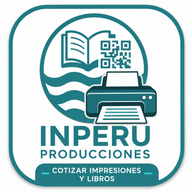
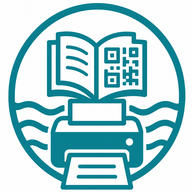
Add files via upload

diff --git a/index.html b/index.html
@@ -10,6 +10,9 @@
     <meta name="apple-mobile-web-app-capable" content="yes">
     <meta name="apple-mobile-web-app-status-bar-style" content="black-translucent">
     <meta name="apple-mobile-web-app-title" content="INPERU">
+    <link rel="manifest" href="./manifest.json">
+    <link rel="icon" type="image/png" sizes="48x48" href="./icons/favicon-48.png">
+    <link rel="apple-touch-icon" sizes="180x180" href="./icons/apple-touch-icon.png">
     
     <!-- Tailwind CSS -->
     <script src="https://cdn.tailwindcss.com"></script>
@@ -54,11 +57,11 @@
             #app-nav {
                 position: fixed; z-index: 60; left: .75rem; right: .75rem;
                 bottom: calc(.65rem + env(safe-area-inset-bottom));
-                display: grid; grid-template-columns: repeat(3, minmax(0,1fr));
+                display: grid; grid-template-columns: repeat(4, minmax(0,1fr));
                 box-shadow: 0 18px 55px rgba(0,0,0,.6); backdrop-filter: blur(18px);
             }
-            #app-nav button { min-height: 3.25rem; padding: .5rem .35rem; justify-content: center; }
-            #app-nav button > span { display: block; font-size: .65rem; }
+            #app-nav button { min-width: 0; min-height: 3.25rem; padding: .45rem .2rem; justify-content: center; gap: .25rem; flex-direction: column; }
+            #app-nav button > span { display: block; max-width: 100%; overflow: hidden; text-overflow: ellipsis; white-space: nowrap; font-size: .58rem; }
         }
     </style>
 
@@ -189,6 +192,10 @@
                         </div>
                     </div>
                 </div>
+
+                <button id="install-app-btn" type="button" onclick="installApp()" class="hidden ml-auto sm:ml-0 bg-teal-600 hover:bg-teal-500 text-white text-xs font-bold px-3 py-2 rounded-xl shadow-lg items-center gap-2 shrink-0">
+                    <i class="fa-solid fa-download"></i><span class="hidden sm:inline">Instalar</span>
+                </button>
 
                 <nav id="app-nav" class="flex items-center gap-1 bg-[#061215]/80 p-1.5 rounded-xl border border-teal-900/50 max-w-full overflow-x-auto">
                     <button onclick="switchTab('quoter')" id="tab-btn-quoter" class="px-3.5 sm:px-4 py-2 rounded-lg text-xs font-bold transition-all flex items-center gap-2 bg-[#28838d] text-white shadow-md shadow-teal-900/40">
@@ -2202,6 +2209,38 @@
             renderCatalog();
             renderSales();
         };
+
+        let deferredInstallPrompt = null;
+        window.addEventListener('beforeinstallprompt', event => {
+            event.preventDefault();
+            deferredInstallPrompt = event;
+            const installButton = document.getElementById('install-app-btn');
+            installButton.classList.remove('hidden');
+            installButton.classList.add('flex');
+        });
+
+        async function installApp() {
+            if (!deferredInstallPrompt) {
+                showToastMessage('En Chrome, abre el menú y elige “Instalar aplicación” o “Agregar a pantalla principal”.');
+                return;
+            }
+            deferredInstallPrompt.prompt();
+            await deferredInstallPrompt.userChoice;
+            deferredInstallPrompt = null;
+            document.getElementById('install-app-btn').classList.add('hidden');
+        }
+
+        window.addEventListener('appinstalled', () => {
+            deferredInstallPrompt = null;
+            document.getElementById('install-app-btn').classList.add('hidden');
+            showToastMessage('INPERU se instaló correctamente.');
+        });
+
+        if ('serviceWorker' in navigator && location.protocol !== 'file:') {
+            window.addEventListener('load', () => {
+                navigator.serviceWorker.register('./service-worker.js').catch(error => console.warn('No se pudo registrar el modo instalable:', error));
+            });
+        }
     </script>
 </body>
 </html>

diff --git a/service-worker.js b/service-worker.js
@@ -1,79 +1,50 @@
 const CACHE_NAME = 'inperu-app-v1';
-const APP_SHELL = [
+const APP_ASSETS = [
   './',
-  './index.html',
-  './manifest.webmanifest',
-  './icons/favicon-32.png',
-  './icons/apple-touch-icon.png',
+  './manifest.json',
   './icons/icon-192.png',
   './icons/icon-512.png',
-  './icons/icon-maskable-192.png',
-  './icons/icon-maskable-512.png'
+  './icons/icon-maskable-512.png',
+  './icons/apple-touch-icon.png',
+  './icons/favicon-48.png'
 ];
 
 self.addEventListener('install', event => {
-  event.waitUntil(
-    caches.open(CACHE_NAME)
-      .then(cache => cache.addAll(APP_SHELL))
-      .then(() => self.skipWaiting())
-  );
+  event.waitUntil(caches.open(CACHE_NAME).then(cache => cache.addAll(APP_ASSETS)));
+  self.skipWaiting();
 });
 
 self.addEventListener('activate', event => {
   event.waitUntil(
-    caches.keys()
-      .then(keys => Promise.all(
-        keys
-          .filter(key => key.startsWith('inperu-app-') && key !== CACHE_NAME)
-          .map(key => caches.delete(key))
-      ))
-      .then(() => self.clients.claim())
+    caches.keys().then(keys => Promise.all(keys.filter(key => key !== CACHE_NAME).map(key => caches.delete(key))))
   );
+  self.clients.claim();
 });
 
 self.addEventListener('fetch', event => {
-  const { request } = event;
-  if (request.method !== 'GET') return;
+  if (event.request.method !== 'GET') return;
+  const requestUrl = new URL(event.request.url);
 
-  const url = new URL(request.url);
-  if (!['http:', 'https:'].includes(url.protocol)) return;
-
-  if (request.mode === 'navigate') {
+  if (event.request.mode === 'navigate') {
     event.respondWith(
-      fetch(request)
+      fetch(event.request)
         .then(response => {
           const copy = response.clone();
-          caches.open(CACHE_NAME).then(cache => cache.put('./index.html', copy));
+          caches.open(CACHE_NAME).then(cache => cache.put(event.request, copy));
           return response;
         })
-        .catch(() => caches.match('./index.html'))
+        .catch(() => caches.match(event.request).then(response => response || caches.match('./')))
     );
     return;
   }
 
-  const staticHosts = new Set([
-    self.location.host,
-    'cdn.tailwindcss.com',
-    'cdnjs.cloudflare.com',
-    'fonts.googleapis.com',
-    'fonts.gstatic.com',
-    'www.gstatic.com'
-  ]);
-
-  if (!staticHosts.has(url.host)) return;
-
-  event.respondWith(
-    caches.match(request).then(cached => {
-      const update = fetch(request)
-        .then(response => {
-          if (response.ok || response.type === 'opaque') {
-            const copy = response.clone();
-            caches.open(CACHE_NAME).then(cache => cache.put(request, copy));
-          }
-          return response;
-        })
-        .catch(() => cached);
-      return cached || update;
-    })
-  );
+  if (requestUrl.origin === self.location.origin) {
+    event.respondWith(
+      caches.match(event.request).then(cached => cached || fetch(event.request).then(response => {
+        const copy = response.clone();
+        caches.open(CACHE_NAME).then(cache => cache.put(event.request, copy));
+        return response;
+      }))
+    );
+  }
 });
